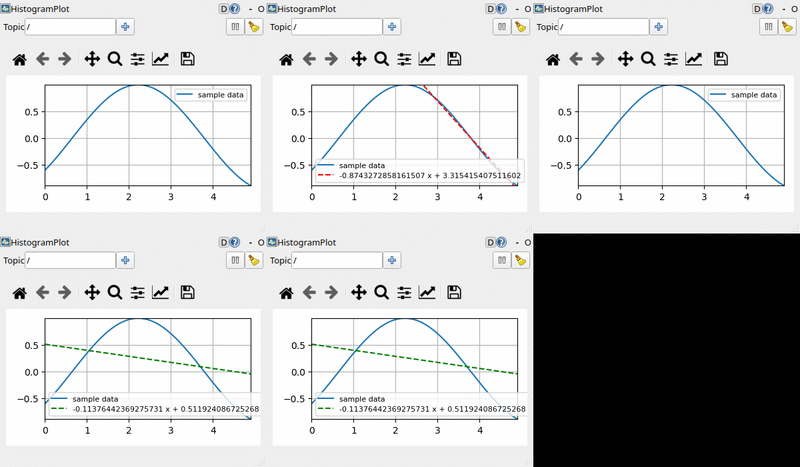
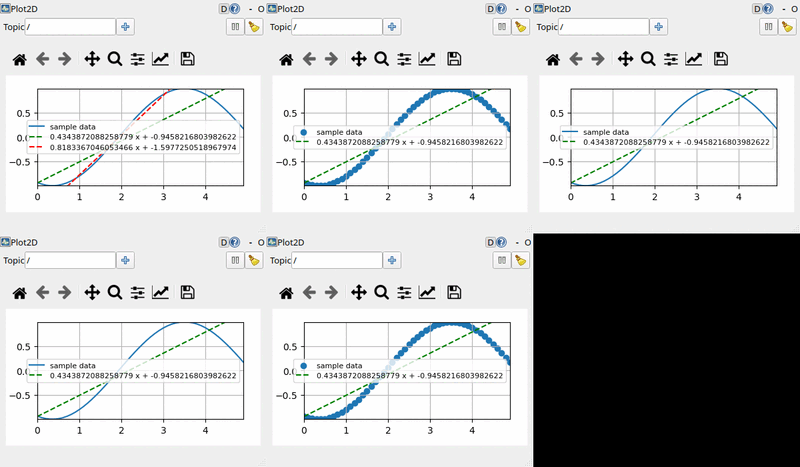
gallery: OverlayText, PieChart, BoundingBoxArray, PolygonArray, SegmentArray, HistogramPlot, Plot2D on ROS 2
Fill the ROS 2 cells of the plugins that were ROS 1 only, captured from
their ROS 2 samples on ROS 2 Jazzy (rviz2, rqt) under Xvfb:
rviz_overlay_ros2.gif (now with the OverlayText and the PieChart of
jsk_rviz_plugins), rviz_piechart_ros2.png, rviz_bounding_box_array_ros2.png,
rviz_polygon_array_ros2.png, rviz_segment_array_ros2.png,
rqt_histogram_plot_ros2.png and rqt_2d_plot_ros2.png, and note that the
plugins of jsk_recognition_msgs need it built from source on ROS 2.
rqt_2d_plot_ros1.png is captured again with the Plot2D window titles.
README.md has the same text as .readme/gallery_ros1_ros2.md.

Claude-Session: https://claude.ai/code/session_01Xo6jRt2Rcht9sQS6ms6A4p

diff --git a/README.md b/README.md
@@ -36,20 +36,23 @@ These are the sample launch files (`roslaunch <pkg> <sample>.launch` on ROS 1,
 `ros2 launch <pkg> <sample>.launch.py` on ROS 2) and the rqt scripts (`rosrun` / `ros2 run`)
 captured on ROS One (rviz) and on ROS 2 Jazzy (rviz2); in the GIFs of the interactive markers
 and of image_view2 the markers and the image are dragged with the mouse.
+On ROS 2, the plugins of jsk_recognition_msgs (BoundingBoxArray, PolygonArray, SegmentArray,
+HistogramPlot, Plot2D) and their samples are built when jsk_recognition_msgs is found, which is
+not released for ROS 2 yet and has to be built from source in the workspace.
 
 ### jsk_rviz_plugins
 
 | plugin / sample | ROS 1 | ROS 2 |
 |:--|:--:|:--:|
-| OverlayText, String, Plotter2D, PieChart,<br>OverlayImage, OverlayMenu, OverlayDiagnostic<br>`overlay_sample`<br>(on ROS 2, OverlayText and PieChart<br>are left to rviz_2d_overlay_plugins) | <img src=".readme/gallery/rviz_overlay_ros1.gif" width="400"> | <img src=".readme/gallery/rviz_overlay_ros2.gif" width="400"> |
+| OverlayText, String, Plotter2D, PieChart,<br>OverlayImage, OverlayMenu, OverlayDiagnostic<br>`overlay_sample` | <img src=".readme/gallery/rviz_overlay_ros1.gif" width="400"> | <img src=".readme/gallery/rviz_overlay_ros2.gif" width="400"> |
 | Pictogram, PictogramArray<br>`pictogram_sample` | <img src=".readme/gallery/rviz_pictogram_ros1.png" width="400"> | <img src=".readme/gallery/rviz_pictogram_ros2.png" width="400"> |
 | LinearGauge<br>`linear_gauge_sample` | <img src=".readme/gallery/rviz_linear_gauge_ros1.png" width="400"> | <img src=".readme/gallery/rviz_linear_gauge_ros2.png" width="400"> |
-| PieChart<br>`piechart_sample` | <img src=".readme/gallery/rviz_piechart_ros1.png" width="400"> | ROS 1 only<br>(rviz_2d_overlay_plugins on ROS 2) |
+| PieChart<br>`piechart_sample` | <img src=".readme/gallery/rviz_piechart_ros1.png" width="400"> | <img src=".readme/gallery/rviz_piechart_ros2.png" width="400"> |
 | RobotCommandInterfaceAction (panel)<br>`robot_command_interface_sample` | <img src=".readme/gallery/rviz_robot_command_interface_ros1.png" width="400"> | <img src=".readme/gallery/rviz_robot_command_interface_ros2.png" width="400"> |
 | EmptyServiceCallInterfaceAction (panel)<br>`service_call_panel` | <img src=".readme/gallery/rviz_service_call_panel_ros1.png" width="400"> | <img src=".readme/gallery/rviz_service_call_panel_ros2.png" width="400"> |
-| BoundingBoxArray<br>`boundingbox_sample` | <img src=".readme/gallery/rviz_bounding_box_array_ros1.png" width="400"> | ROS 1 only<br>(needs jsk_recognition_msgs,<br>not released for ROS 2) |
-| PolygonArray<br>`polygon_array_sample` | <img src=".readme/gallery/rviz_polygon_array_ros1.png" width="400"> | ROS 1 only<br>(needs jsk_recognition_msgs,<br>not released for ROS 2) |
-| SegmentArray<br>`segment_array_sample` | <img src=".readme/gallery/rviz_segment_array_ros1.png" width="400"> | ROS 1 only<br>(needs jsk_recognition_msgs,<br>not released for ROS 2) |
+| BoundingBoxArray<br>`boundingbox_sample` | <img src=".readme/gallery/rviz_bounding_box_array_ros1.png" width="400"> | <img src=".readme/gallery/rviz_bounding_box_array_ros2.png" width="400"> |
+| PolygonArray<br>`polygon_array_sample` | <img src=".readme/gallery/rviz_polygon_array_ros1.png" width="400"> | <img src=".readme/gallery/rviz_polygon_array_ros2.png" width="400"> |
+| SegmentArray<br>`segment_array_sample` | <img src=".readme/gallery/rviz_segment_array_ros1.png" width="400"> | <img src=".readme/gallery/rviz_segment_array_ros2.png" width="400"> |
 
 ### jsk_rqt_plugins
 
@@ -64,8 +67,8 @@ and of image_view2 the markers and the image are dragged with the mouse.
 | ServiceRadioButtons<br>`sample_service_radio_buttons` | <img src=".readme/gallery/rqt_service_radio_buttons_ros1.png" width="400"> | <img src=".readme/gallery/rqt_service_radio_buttons_ros2.png" width="400"> |
 | ServiceTabbedButtons<br>`sample_tabbed_buttons` | <img src=".readme/gallery/rqt_tabbed_buttons_ros1.png" width="400"> | <img src=".readme/gallery/rqt_tabbed_buttons_ros2.png" width="400"> |
 | DRCEnvironmentViewer<br>`sample_drc_mini_maxwell` | <img src=".readme/gallery/rqt_drc_mini_maxwell_ros1.png" width="400"> | <img src=".readme/gallery/rqt_drc_mini_maxwell_ros2.png" width="400"> |
-| HistogramPlot<br>`sample_histogram` | <img src=".readme/gallery/rqt_histogram_plot_ros1.png" width="400"> | ROS 1 only<br>(needs jsk_recognition_msgs,<br>not released for ROS 2) |
-| Plot2D<br>`sample_2dplot` | <img src=".readme/gallery/rqt_2d_plot_ros1.png" width="400"> | ROS 1 only<br>(needs jsk_recognition_msgs,<br>not released for ROS 2) |
+| HistogramPlot<br>`sample_histogram` | <img src=".readme/gallery/rqt_histogram_plot_ros1.png" width="400"> | <img src=".readme/gallery/rqt_histogram_plot_ros2.png" width="400"> |
+| Plot2D<br>`sample_2dplot` | <img src=".readme/gallery/rqt_2d_plot_ros1.png" width="400"> | <img src=".readme/gallery/rqt_2d_plot_ros2.png" width="400"> |
 
 ### jsk_interactive_marker
 

diff --git a/.readme/gallery_ros1_ros2.md b/.readme/gallery_ros1_ros2.md
@@ -6,20 +6,23 @@ These are the sample launch files (`roslaunch <pkg> <sample>.launch` on ROS 1,
 `ros2 launch <pkg> <sample>.launch.py` on ROS 2) and the rqt scripts (`rosrun` / `ros2 run`)
 captured on ROS One (rviz) and on ROS 2 Jazzy (rviz2); in the GIFs of the interactive markers
 and of image_view2 the markers and the image are dragged with the mouse.
+On ROS 2, the plugins of jsk_recognition_msgs (BoundingBoxArray, PolygonArray, SegmentArray,
+HistogramPlot, Plot2D) and their samples are built when jsk_recognition_msgs is found, which is
+not released for ROS 2 yet and has to be built from source in the workspace.
 
 ### jsk_rviz_plugins
 
 | plugin / sample | ROS 1 | ROS 2 |
 |:--|:--:|:--:|
-| OverlayText, String, Plotter2D, PieChart,<br>OverlayImage, OverlayMenu, OverlayDiagnostic<br>`overlay_sample`<br>(on ROS 2, OverlayText and PieChart<br>are left to rviz_2d_overlay_plugins) | <img src=".readme/gallery/rviz_overlay_ros1.gif" width="400"> | <img src=".readme/gallery/rviz_overlay_ros2.gif" width="400"> |
+| OverlayText, String, Plotter2D, PieChart,<br>OverlayImage, OverlayMenu, OverlayDiagnostic<br>`overlay_sample` | <img src=".readme/gallery/rviz_overlay_ros1.gif" width="400"> | <img src=".readme/gallery/rviz_overlay_ros2.gif" width="400"> |
 | Pictogram, PictogramArray<br>`pictogram_sample` | <img src=".readme/gallery/rviz_pictogram_ros1.png" width="400"> | <img src=".readme/gallery/rviz_pictogram_ros2.png" width="400"> |
 | LinearGauge<br>`linear_gauge_sample` | <img src=".readme/gallery/rviz_linear_gauge_ros1.png" width="400"> | <img src=".readme/gallery/rviz_linear_gauge_ros2.png" width="400"> |
-| PieChart<br>`piechart_sample` | <img src=".readme/gallery/rviz_piechart_ros1.png" width="400"> | ROS 1 only<br>(rviz_2d_overlay_plugins on ROS 2) |
+| PieChart<br>`piechart_sample` | <img src=".readme/gallery/rviz_piechart_ros1.png" width="400"> | <img src=".readme/gallery/rviz_piechart_ros2.png" width="400"> |
 | RobotCommandInterfaceAction (panel)<br>`robot_command_interface_sample` | <img src=".readme/gallery/rviz_robot_command_interface_ros1.png" width="400"> | <img src=".readme/gallery/rviz_robot_command_interface_ros2.png" width="400"> |
 | EmptyServiceCallInterfaceAction (panel)<br>`service_call_panel` | <img src=".readme/gallery/rviz_service_call_panel_ros1.png" width="400"> | <img src=".readme/gallery/rviz_service_call_panel_ros2.png" width="400"> |
-| BoundingBoxArray<br>`boundingbox_sample` | <img src=".readme/gallery/rviz_bounding_box_array_ros1.png" width="400"> | ROS 1 only<br>(needs jsk_recognition_msgs,<br>not released for ROS 2) |
-| PolygonArray<br>`polygon_array_sample` | <img src=".readme/gallery/rviz_polygon_array_ros1.png" width="400"> | ROS 1 only<br>(needs jsk_recognition_msgs,<br>not released for ROS 2) |
-| SegmentArray<br>`segment_array_sample` | <img src=".readme/gallery/rviz_segment_array_ros1.png" width="400"> | ROS 1 only<br>(needs jsk_recognition_msgs,<br>not released for ROS 2) |
+| BoundingBoxArray<br>`boundingbox_sample` | <img src=".readme/gallery/rviz_bounding_box_array_ros1.png" width="400"> | <img src=".readme/gallery/rviz_bounding_box_array_ros2.png" width="400"> |
+| PolygonArray<br>`polygon_array_sample` | <img src=".readme/gallery/rviz_polygon_array_ros1.png" width="400"> | <img src=".readme/gallery/rviz_polygon_array_ros2.png" width="400"> |
+| SegmentArray<br>`segment_array_sample` | <img src=".readme/gallery/rviz_segment_array_ros1.png" width="400"> | <img src=".readme/gallery/rviz_segment_array_ros2.png" width="400"> |
 
 ### jsk_rqt_plugins
 
@@ -34,8 +37,8 @@ and of image_view2 the markers and the image are dragged with the mouse.
 | ServiceRadioButtons<br>`sample_service_radio_buttons` | <img src=".readme/gallery/rqt_service_radio_buttons_ros1.png" width="400"> | <img src=".readme/gallery/rqt_service_radio_buttons_ros2.png" width="400"> |
 | ServiceTabbedButtons<br>`sample_tabbed_buttons` | <img src=".readme/gallery/rqt_tabbed_buttons_ros1.png" width="400"> | <img src=".readme/gallery/rqt_tabbed_buttons_ros2.png" width="400"> |
 | DRCEnvironmentViewer<br>`sample_drc_mini_maxwell` | <img src=".readme/gallery/rqt_drc_mini_maxwell_ros1.png" width="400"> | <img src=".readme/gallery/rqt_drc_mini_maxwell_ros2.png" width="400"> |
-| HistogramPlot<br>`sample_histogram` | <img src=".readme/gallery/rqt_histogram_plot_ros1.png" width="400"> | ROS 1 only<br>(needs jsk_recognition_msgs,<br>not released for ROS 2) |
-| Plot2D<br>`sample_2dplot` | <img src=".readme/gallery/rqt_2d_plot_ros1.png" width="400"> | ROS 1 only<br>(needs jsk_recognition_msgs,<br>not released for ROS 2) |
+| HistogramPlot<br>`sample_histogram` | <img src=".readme/gallery/rqt_histogram_plot_ros1.png" width="400"> | <img src=".readme/gallery/rqt_histogram_plot_ros2.png" width="400"> |
+| Plot2D<br>`sample_2dplot` | <img src=".readme/gallery/rqt_2d_plot_ros1.png" width="400"> | <img src=".readme/gallery/rqt_2d_plot_ros2.png" width="400"> |
 
 ### jsk_interactive_marker
 
